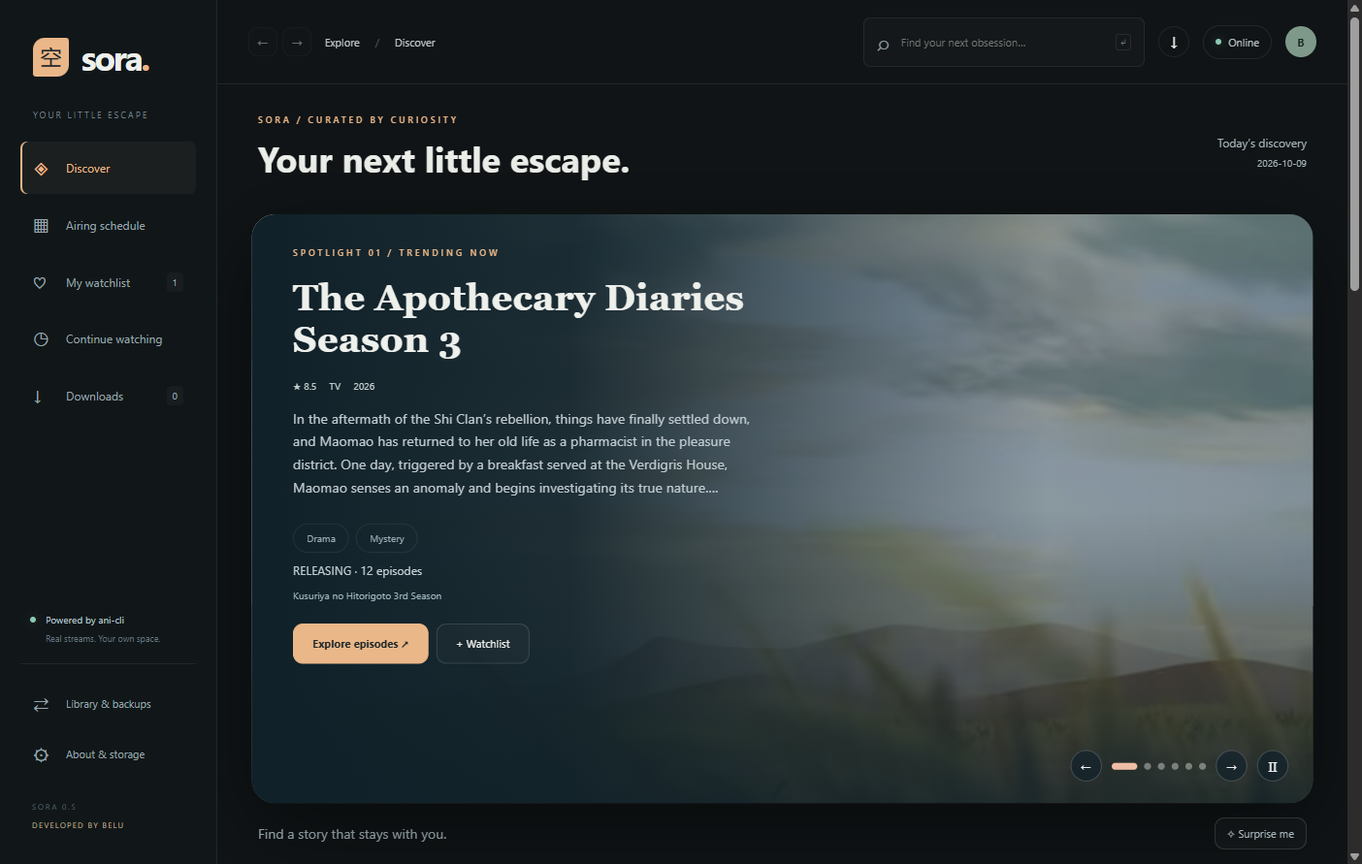
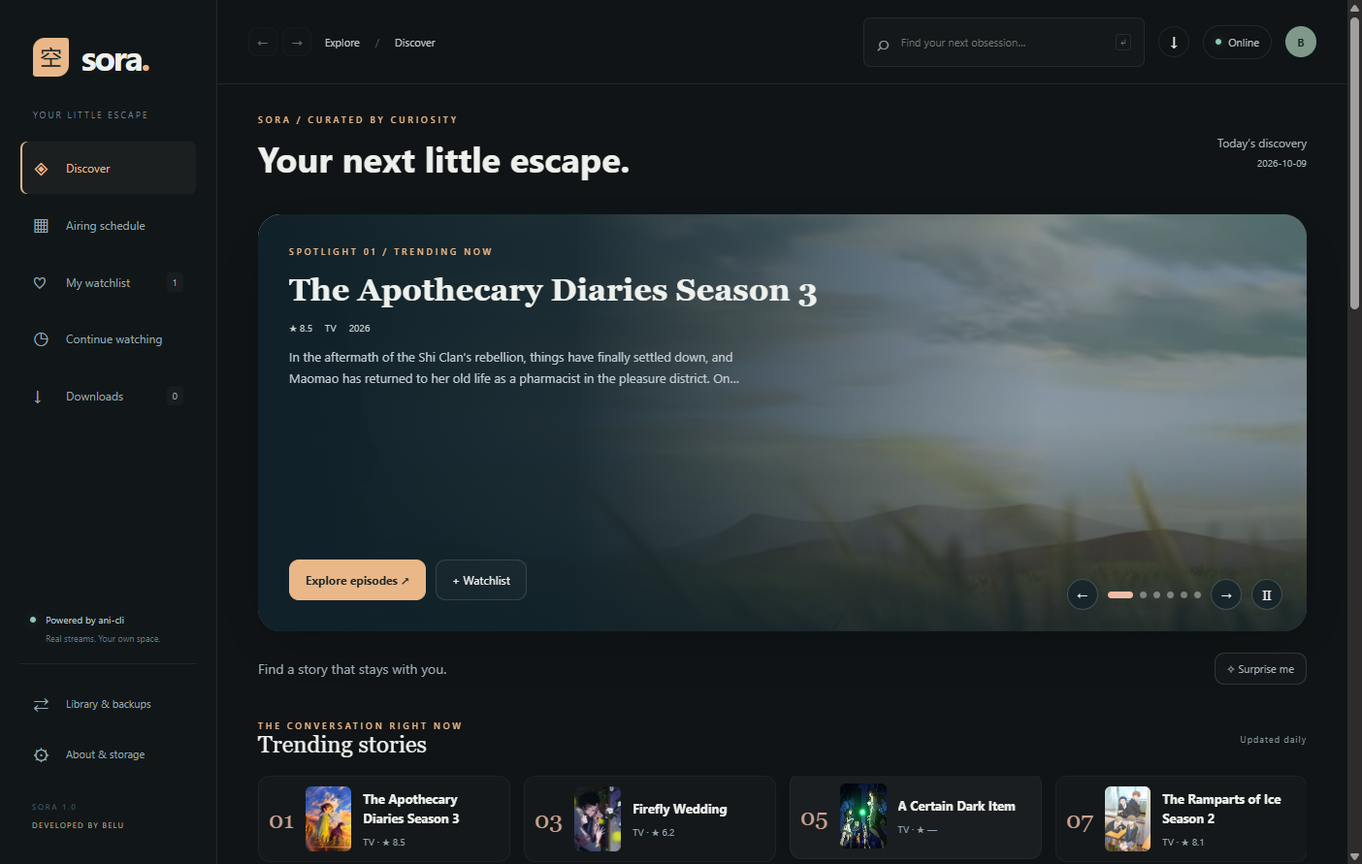
Finalize Sora 1.0 with responsive spotlight actions and regression verification

diff --git a/home.js b/home.js
@@ -6,7 +6,7 @@ async function loadDiscovery(force=false){applyDiscovery(await call('discovery',
 function heroItems(){const candidates=homeFeed?.trending||home;const banners=candidates.filter(m=>m.bannerImage);return (banners.length?banners:candidates).slice(0,6);}
 function moveSpotlight(index){const items=heroItems();if(!items.length)return;heroIndex=(index+items.length)%items.length;const track=$('#spotlight-track');document.querySelectorAll('.spotlight-slide').forEach((slide,i)=>slide.inert=i!==heroIndex);if(track)track.style.transform=`translateX(-${heroIndex*100}%)`;document.querySelectorAll('[data-spotlight]').forEach((b,i)=>{b.classList.toggle('active',i===heroIndex);b.setAttribute('aria-pressed',String(i===heroIndex));});}
 function startSpotlight(){clearInterval(heroTimer);moveSpotlight(heroIndex);heroTimer=setInterval(()=>{const hero=$('#home-spotlight');if(view==='home'&&!heroPaused&&!document.hidden&&hero&&!hero.matches(':hover')&&!hero.contains(document.activeElement)&&!playerReq)moveSpotlight(heroIndex+1);},5000);}
-function renderHome(){clearInterval(heroTimer);if(!home.length){$('#content').innerHTML=heading('YOUR NEXT LITTLE ESCAPE','A world worth getting lost in.')+soraLoader('Finding today’s stories');return;}heroIndex=Math.min(heroIndex,heroItems().length-1);const items=heroItems();$('#content').innerHTML=`<div class="discover-intro"><div><div class="eyebrow">SORA / CURATED BY CURIOSITY</div><h1>Your next little escape.</h1></div><span class="daily-note">${homeFeed?.stale?'Saved discovery · refresh pending':'Today’s discovery'}<br><small>${esc(homeFeed?.day||'Available offline')}</small></span></div><section id="home-spotlight" class="spotlight" aria-label="Featured anime"><div id="spotlight-track" class="spotlight-track" style="transform:translateX(-${heroIndex*100}%)">${items.map((m,i)=>`<article class="spotlight-slide"><img class="spotlight-art ${m.bannerImage?'':'spotlight-poster-fallback'}" src="${esc(m.bannerImage||m.coverImage?.extraLarge||art(m))}" alt="" ${i?'loading="lazy"':''}><div class="spotlight-shade"></div><div class="spotlight-copy"><div class="eyebrow">SPOTLIGHT ${String(i+1).padStart(2,'0')} / TRENDING NOW</div><h2>${esc(title(m))}</h2><div class="meta"><span>★ ${m.averageScore?(m.averageScore/10).toFixed(1):'—'}</span><span>${esc(m.format||'ANIME')}</span><span>${esc(m.seasonYear||'')}</span></div><p>${esc(plain(m.description).slice(0,650))}</p><div class="spotlight-more"><div class="tags">${(m.genres||[]).map(g=>`<span class="tag">${esc(g)}</span>`).join('')}</div><span>${esc(m.status?.replaceAll('_',' ')||'')} · ${esc(m.episodes?m.episodes+' episodes':'Episode count to be announced')}</span><small>${esc(m.title?.romaji!==title(m)?m.title?.romaji:'Artwork matched to this AniList season')}</small></div><button class="button primary" data-open="${m.id}">Explore episodes ↗</button><button class="button" data-save="${m.id}">${saved(m.id)?'✓ Saved':'+ Watchlist'}</button></div></article>`).join('')}</div><div class="spotlight-controls"><button data-hero-step="-1" aria-label="Previous recommendation">←</button><div>${items.map((m,i)=>`<button data-spotlight="${i}" class="${i===heroIndex?'active':''}" aria-label="Recommendation ${i+1}: ${esc(title(m))}" aria-pressed="${i===heroIndex}"></button>`).join('')}</div><button data-hero-step="1" aria-label="Next recommendation">→</button><button id="pause-spotlight" aria-label="Pause recommendations">${heroPaused?'▶':'Ⅱ'}</button></div></section><div class="discovery-toolbar"><span>Find a story that stays with you.</span><button class="button small" id="surprise-me">✧ Surprise me</button></div><section><div class="section-heading"><div><div class="eyebrow">THE CONVERSATION RIGHT NOW</div><h2>Trending stories</h2></div><span class="muted">Updated daily</span></div><div class="ranked-stories">${(homeFeed?.trending||home).slice(0,10).map((m,i)=>`<button class="ranked-story" data-open="${m.id}"><b>${String(i+1).padStart(2,'0')}</b><img src="${esc(art(m))}" loading="lazy" alt=""><span><strong>${esc(title(m))}</strong><small>${esc(m.format||'ANIME')} · ★ ${m.averageScore?(m.averageScore/10).toFixed(1):'—'}</small></span></button>`).join('')}</div></section><section><div class="section-heading"><div><div class="eyebrow">RECENT FAVOURITES</div><h2>Popular lately</h2></div></div>${cards(homeFeed?.popular?.length?homeFeed.popular:home.slice(0,12))}</section>${homeFeed?.upcoming?.length?`<section><div class="section-heading"><div><div class="eyebrow">SOMETHING TO LOOK FORWARD TO</div><h2>On the horizon</h2></div></div>${cards(homeFeed.upcoming)}</section>`:''}<p class="muted discovery-credit">Your stories. Your pace. Sora by Belu.</p>`;startSpotlight();}
+function renderHome(){clearInterval(heroTimer);if(!home.length){$('#content').innerHTML=heading('YOUR NEXT LITTLE ESCAPE','A world worth getting lost in.')+soraLoader('Finding today’s stories');return;}heroIndex=Math.min(heroIndex,heroItems().length-1);const items=heroItems();$('#content').innerHTML=`<div class="discover-intro"><div><div class="eyebrow">SORA / CURATED BY CURIOSITY</div><h1>Your next little escape.</h1></div><span class="daily-note">${homeFeed?.stale?'Saved discovery · refresh pending':'Today’s discovery'}<br><small>${esc(homeFeed?.day||'Available offline')}</small></span></div><section id="home-spotlight" class="spotlight" aria-label="Featured anime"><div id="spotlight-track" class="spotlight-track" style="transform:translateX(-${heroIndex*100}%)">${items.map((m,i)=>`<article class="spotlight-slide"><img class="spotlight-art ${m.bannerImage?'':'spotlight-poster-fallback'}" src="${esc(m.bannerImage||m.coverImage?.extraLarge||art(m))}" alt="" ${i?'loading="lazy"':''}><div class="spotlight-shade"></div><div class="spotlight-copy"><div class="eyebrow">SPOTLIGHT ${String(i+1).padStart(2,'0')} / TRENDING NOW</div><h2 title="${esc(title(m))}">${esc(title(m))}</h2><div class="meta"><span>★ ${m.averageScore?(m.averageScore/10).toFixed(1):'—'}</span><span>${esc(m.format||'ANIME')}</span><span>${esc(m.seasonYear||'')}</span></div><p>${esc(plain(m.description).slice(0,650))}</p><div class="spotlight-more"><div class="tags">${(m.genres||[]).map(g=>`<span class="tag">${esc(g)}</span>`).join('')}</div><span>${esc(m.status?.replaceAll('_',' ')||'')} · ${esc(m.episodes?m.episodes+' episodes':'Episode count to be announced')}</span><small>${esc(m.title?.romaji!==title(m)?m.title?.romaji:'Artwork matched to this AniList season')}</small></div><div class="spotlight-actions"><button class="button primary" data-open="${m.id}">Explore episodes ↗</button><button class="button" data-save="${m.id}">${saved(m.id)?'✓ Saved':'+ Watchlist'}</button></div></div></article>`).join('')}</div><div class="spotlight-controls"><button data-hero-step="-1" aria-label="Previous recommendation">←</button><div>${items.map((m,i)=>`<button data-spotlight="${i}" class="${i===heroIndex?'active':''}" aria-label="Recommendation ${i+1}: ${esc(title(m))}" aria-pressed="${i===heroIndex}"></button>`).join('')}</div><button data-hero-step="1" aria-label="Next recommendation">→</button><button id="pause-spotlight" aria-label="Pause recommendations">${heroPaused?'▶':'Ⅱ'}</button></div></section><div class="discovery-toolbar"><span>Find a story that stays with you.</span><button class="button small" id="surprise-me">✧ Surprise me</button></div><section><div class="section-heading"><div><div class="eyebrow">THE CONVERSATION RIGHT NOW</div><h2>Trending stories</h2></div><span class="muted">Updated daily</span></div><div class="ranked-stories">${(homeFeed?.trending||home).slice(0,10).map((m,i)=>`<button class="ranked-story" data-open="${m.id}"><b>${String(i+1).padStart(2,'0')}</b><img src="${esc(art(m))}" loading="lazy" alt=""><span><strong>${esc(title(m))}</strong><small>${esc(m.format||'ANIME')} · ★ ${m.averageScore?(m.averageScore/10).toFixed(1):'—'}</small></span></button>`).join('')}</div></section><section><div class="section-heading"><div><div class="eyebrow">RECENT FAVOURITES</div><h2>Popular lately</h2></div></div>${cards(homeFeed?.popular?.length?homeFeed.popular:home.slice(0,12))}</section>${homeFeed?.upcoming?.length?`<section><div class="section-heading"><div><div class="eyebrow">SOMETHING TO LOOK FORWARD TO</div><h2>On the horizon</h2></div></div>${cards(homeFeed.upcoming)}</section>`:''}<p class="muted discovery-credit">Your stories. Your pace. Sora by Belu.</p>`;startSpotlight();}
 function renderDownloads(){const complete=queue.filter(j=>j.availableOffline).length;$('#content').innerHTML=heading('YOUR OFFLINE COLLECTION','A little saved for later.',`${complete} saved · ${queue.length} in collection`)+`<div class="download-intro"><span class="muted">Select an artwork or title to open its anime page.</span><button class="button small" id="open-folder">↗ Open folder</button></div>`+(queue.length?`<div class="collection-grid">${queue.map(j=>`<article class="collection-card"><button class="collection-cover" data-download-title="${esc(j.key)}" aria-label="Open ${esc(j.title)}">${j.thumbnail?`<img src="${esc(j.thumbnail)}" alt="${esc(j.title)}" loading="lazy">`:'<span>空</span>'}</button><div class="collection-copy"><button class="collection-title" data-download-title="${esc(j.key)}">${esc(j.title)}</button><p>Episode ${esc(j.episode)} · ${esc(j.mode||'sub')}</p><span class="collection-status ${j.availableOffline?'saved':''}">${j.availableOffline?'● Saved offline':j.status==='complete'?'File unavailable':esc(j.status)}</span><p class="muted">${esc(j.progress||j.error||'')}</p><div>${['queued','resolving','downloading'].includes(j.status)?`<button class="button small" data-cancel="${esc(j.key)}">Cancel</button>`:['error','failed','cancelled'].includes(j.status)?`<button class="button small" data-retry-download="${esc(j.key)}">↻ Retry</button>`:''}</div></div></article>`).join('')}</div>`:'<div class="empty"><h2>Take a story with you.</h2>Download an episode from its anime page to see it here.</div>');}
 function showConnection(value){connectionState=value;const b=$('#connection-status');if(!b)return;b.className=`connection-status ${value.online===null?'checking':value.online?'online':'offline'}`;b.querySelector('span').textContent=value.online===null?'Checking':value.online?(value.catalogueAvailable===false?'Online · limited':'Online'):'Offline';b.title=value.online?'Internet available · click to recheck':'Offline · saved library and downloads remain available';}
 async function checkConnection(){if(!navigator.onLine){showConnection({online:false});return;}try{showConnection(await call('connectivity'));}catch{showConnection({online:false});}}

diff --git a/renderer.js b/renderer.js
@@ -17,7 +17,7 @@ function renderView(){const content=$('#content');
   else if(view==='history')content.innerHTML=heading('PICK UP WHERE YOU LEFT OFF','One more episode?')+(library.history.length?`<div class="cards">${library.history.map(h=>`<button class="card" data-resume="${h.media.id}"><div class="poster"><img src="${esc(art(h.media))}" alt="${esc(title(h.media))}"><span class="card-badge">EPISODE ${esc(h.episode)}</span><span class="play-icon">↗</span></div><h3>${esc(title(h.media))}</h3><div class="card-meta"><span>${h.position?Math.floor(h.position/60)+' min in':'Ready to watch'}</span><b>View episodes →</b></div></button>`).join('')}</div>`:'<div class="empty"><h2>Your stories will find you here.</h2>Start an episode to build your viewing history.</div>');
   else if(view==='search')content.innerHTML=heading('FIND SOMETHING YOU’LL LOVE',`Results for “${$('#search').value.trim()}”`,`${searchItems.length} titles`)+(searchItems.length?cards(searchItems):'<div class="empty">No titles found. Try the English or Japanese title.</div>');
   else if(view==='backup')renderBackup();else if(view==='schedule')void renderSchedule();else if(view==='downloads')renderDownloads();
-  else if(view==='about')content.innerHTML=heading('MADE FOR YOUR LITTLE ESCAPE','A home for your stories, by Belu.')+`<div class="about-grid"><section class="about-panel"><div class="eyebrow">SORA 0.5 / DEVELOPED BY BELU</div><h2>Beautiful on the outside.<br>ani-cli on the inside.</h2><p>Search artwork and metadata from AniList. Browse real episodes and resolve streams through a pinned copy of the original ani-cli. Your watchlist and playback positions stay on this computer.</p><p>Sora Cinema includes adaptive quality, subtitle controls, playback speed, picture in picture, and keyboard shortcuts. Explore related seasons and download episodes individually or in batches. Created by Belu. Your library, player preferences, and backups stay on your computer.</p></section><section class="about-panel"><div class="eyebrow">YOUR FILES</div><h2>Everything has a place.</h2><p>Downloads go to:</p><code>${esc(downloadPath)}</code><div class="actions"><button class="button" id="open-folder">↗ Open downloads folder</button></div><p>Application data lives in Sora/data. Source, dependencies and tools stay in the Sora folder. See READ ME.md for launch and removal instructions.</p><p>Sora finds the matching streaming edition automatically. Source availability can vary; reconnect when a stream is unavailable.</p></section></div>`;
+  else if(view==='about')content.innerHTML=heading('MADE FOR YOUR LITTLE ESCAPE','A home for your stories, by Belu.')+`<div class="about-grid"><section class="about-panel"><div class="eyebrow">SORA 1.0 / DEVELOPED BY BELU</div><h2>Beautiful on the outside.<br>ani-cli on the inside.</h2><p>Search artwork and metadata from AniList. Browse real episodes and resolve streams through a pinned copy of the original ani-cli. Your watchlist and playback positions stay on this computer.</p><p>Sora Cinema includes adaptive quality, subtitle controls, playback speed, picture in picture, and keyboard shortcuts. Explore related seasons and download episodes individually or in batches. Created by Belu. Your library, player preferences, and backups stay on your computer.</p></section><section class="about-panel"><div class="eyebrow">YOUR FILES</div><h2>Everything has a place.</h2><p>Downloads go to:</p><code>${esc(downloadPath)}</code><div class="actions"><button class="button" id="open-folder">↗ Open downloads folder</button></div><p>Application data lives in Sora/data. Source, dependencies and tools stay in the Sora folder. See READ ME.md for launch and removal instructions.</p><p>Sora finds the matching streaming edition automatically. Source availability can vary; reconnect when a stream is unavailable.</p></section></div>`;
 }
 async function openDetail(media,resume=null){closePlayer();rememberPage();generation++;const gen=generation;view='detail';related=[];current=media;provider=null;episodes=[];sources=[];episodePage=0;selected=resume?.episode||'1';loadMessage='Finding this title on ani-cli…';loadError='';$('#breadcrumb').innerHTML=`Explore <span>/</span> ${esc(title(media))}`;renderDetail();window.scrollTo(0,0);
   if(connectionState.online===false){loadMessage='Offline · your saved title details are available. Open Downloads to access saved files.';renderDetail();return;}

diff --git a/player.js b/player.js
@@ -26,7 +26,7 @@ async function playEpisode(episode,position=0){
     const tracks=value.tracks?.length?value.tracks:value.subtitles?[{url:value.subtitles,label:'English',language:'en',default:true}]:[];
     tracks.forEach((t,i)=>addSubtitle(video,t,i));
     if(Hls.isSupported()){hls=new Hls({maxBufferLength:20,maxMaxBufferLength:40,startLevel:-1,autoStartLoad:false});const engine=hls;let recoveries=0;
-      engine.on(Hls.Events.MANIFEST_PARSED,()=>{if(playerReq!==req)return;const levels=engine.levels;const best=qualityIndex(levels,'best');const height=levels[best]?.height;$('#player-quality').innerHTML=`<option value="best">Best${height?' · '+height+'p':''}</option><option value="auto">Auto · adaptive</option>`+[...new Set(levels.map(l=>l.height).filter(Boolean))].sort((a,b)=>b-a).map(h=>`<option value="${h}">${h}p</option>`).join('');const target=qualityIndex(levels,desiredQuality);engine.startLevel=target;engine.loadLevel=target;$('#player-quality').value=[...$('#player-quality').options].some(o=>o.value===desiredQuality)?desiredQuality:'best';engine.startLoad(position||-1);video.play().catch(()=>{$('#player-status').textContent='Press Play to start.';});});
+      engine.on(Hls.Events.MANIFEST_PARSED,()=>{if(playerReq!==req)return;const levels=engine.levels;const best=qualityIndex(levels,'best');const height=levels[best]?.height;$('#player-quality').innerHTML=`<option value="best">Best${height?' · '+height+'p':''}</option><option value="auto">Auto · adaptive</option><option value="worst">Lowest available</option>`+[...new Set(levels.map(l=>l.height).filter(Boolean))].sort((a,b)=>b-a).map(h=>`<option value="${h}">${h}p</option>`).join('');const target=qualityIndex(levels,desiredQuality);engine.startLevel=target;engine.loadLevel=target;$('#player-quality').value=[...$('#player-quality').options].some(o=>o.value===desiredQuality)?desiredQuality:'best';engine.startLoad(position||-1);video.play().catch(()=>{$('#player-status').textContent='Press Play to start.';});});
       engine.on(Hls.Events.LEVEL_SWITCHED,()=>{if(playerReq===req)reflectQuality();});
       engine.on(Hls.Events.ERROR,(_event,data)=>{if(!data.fatal||playerReq!==req)return;if(recoveries++<2){$('#player-status').textContent='Reconnecting to the stream…';if(data.type===Hls.ErrorTypes.MEDIA_ERROR)engine.recoverMediaError();else engine.startLoad();}else{$('.cinema-stage')?.classList.remove('is-buffering');$('#player-status').textContent='The source stopped responding. Reconnect with Retry.';}});
       engine.loadSource(value.url);engine.attachMedia(video);
@@ -42,4 +42,5 @@ document.addEventListener('change',async e=>{const v=$('#video');if(!v)return;tr
 document.addEventListener('keydown',e=>{if(!playerReq||/INPUT|SELECT|TEXTAREA/.test(e.target.tagName))return;if(e.key==='F11'){e.preventDefault();void setPlayerFullscreen(!playerFullscreen);return;}const map={' ':'play',ArrowLeft:'back',ArrowRight:'forward',f:'fullscreen',m:'mute'};if(map[e.key]){e.preventDefault();document.querySelector(`[data-control="${map[e.key]}"]`)?.click();}});
 document.addEventListener('change',e=>{if(!playerReq)return;const ids=['speed','caption-size','caption-color','caption-bg','caption-position','caption-offset','skip-seconds','volume','auto-next'];if(!ids.includes(e.target.id))return;const preferences={...playerPrefs()};preferences[e.target.id]=e.target.type==='checkbox'?e.target.checked:e.target.value;storePlayerPreferences(preferences);if(e.target.id==='skip-seconds')$('#skip-label').textContent=e.target.value;});
 document.addEventListener('mousemove',e=>{if(!playerReq||!e.target.closest('#player'))return;$('#player').classList.remove('controls-asleep');clearTimeout(controlsTimer);controlsTimer=setTimeout(()=>{if(playerFullscreen&&!$('#video')?.paused&&!$('.player-settings')?.open)$('#player').classList.add('controls-asleep');},2800);});
+
 

diff --git a/index.html b/index.html
@@ -3,7 +3,7 @@
 <body>
 <aside class="sidebar"><a class="brand" href="#" data-nav="home"><span class="brand-mark">空</span><span>sora<span class="brand-dot">.</span></span></a><div class="workspace-label">YOUR LITTLE ESCAPE</div><nav>
 <button class="nav active" data-nav="home"><span>◈</span>Discover</button><button class="nav" data-nav="schedule"><span>▦</span>Airing schedule</button><button class="nav" data-nav="watchlist"><span>♡</span>My watchlist <small id="saved-count">0</small></button><button class="nav" data-nav="history"><span>◷</span>Continue watching</button><button class="nav" data-nav="downloads"><span>↓</span>Downloads <small id="queue-count">0</small></button>
-</nav><div class="sidebar-bottom"><div class="engine"><span class="live-dot"></span><div>Powered by ani-cli<small>Real streams. Your own space.</small></div></div><button class="nav" data-nav="backup"><span>⇄</span>Library & backups</button><button class="nav" data-nav="about"><span>⚙</span>About & storage</button><div class="version">SORA 0.5 <span>DEVELOPED BY BELU</span></div></div></aside>
+</nav><div class="sidebar-bottom"><div class="engine"><span class="live-dot"></span><div>Powered by ani-cli<small>Real streams. Your own space.</small></div></div><button class="nav" data-nav="backup"><span>⇄</span>Library & backups</button><button class="nav" data-nav="about"><span>⚙</span>About & storage</button><div class="version">SORA 1.0 <span>DEVELOPED BY BELU</span></div></div></aside>
 <div class="app"><header class="topbar"><div class="history-controls"><button id="nav-back" aria-label="Go back" title="Back · Alt+←">←</button><button id="nav-forward" aria-label="Go forward" title="Forward · Alt+→">→</button></div><div class="breadcrumb" id="breadcrumb">Explore <span>/</span> Discover</div><form id="search-form"><span class="search-icon">⌕</span><input id="search" autocomplete="off" placeholder="Find your next obsession…" aria-label="Search anime"><kbd>↵</kbd></form><button class="round" data-nav="downloads" title="Downloads">↓</button><button id="connection-status" class="connection-status checking" title="Checking internet connection"><i></i><span>Checking</span></button><span class="avatar" title="Belu · Developer">B</span></header><main id="content"></main><footer><span>SORA <span class="muted">— a little closer to your next story.</span></span><span>DEVELOPED BY BELU <i>•</i> ARTWORK BY ANILIST</span></footer></div>
 <div id="modal" class="modal hidden" role="dialog" aria-modal="true"></div><div id="player" class="player-shell hidden" role="dialog" aria-modal="true"></div><div id="toast" class="toast hidden" role="status"></div>
 <script src="node_modules/hls.js/dist/hls.min.js"></script><script src="matching.js"></script><script src="experience.js"></script><script src="home.js"></script><script src="poster-preview.js"></script><script src="renderer.js"></script><script src="quality.js"></script><script src="player.js"></script></body></html>

diff --git a/style.css b/style.css
@@ -12,3 +12,5 @@ button,.button,.tag,.nav,.relation-card,.episode-tile,select{transition:backgrou
 /* Landscape banners retain their size; expanded previews belong to poster cards. */
 .spotlight-poster-fallback{width:38%;height:90%;right:4%;top:5%;object-fit:contain;object-position:center;border-radius:14px}.spotlight-more{display:none}.quick-quality{display:flex;align-items:center;gap:8px;font-size:11px;color:#a9c6bc}.quick-quality select{min-width:135px;padding:7px 9px;border-radius:8px;font-size:12px}.control-row{flex-wrap:wrap}
 .poster-preview{position:fixed;z-index:35;width:min(430px,calc(100vw - 24px));max-height:calc(100vh - 112px);overflow:auto;background:#182226;border:1px solid #8ac9b24a;border-radius:18px;box-shadow:0 22px 80px #000b;animation:poster-reveal .18s ease-out;overscroll-behavior:contain}.preview-banner{height:125px;overflow:hidden;position:relative}.preview-banner img{width:100%;height:100%;object-fit:cover}.preview-banner:after{content:'';position:absolute;inset:0;background:linear-gradient(transparent,#182226)}.preview-body{display:flex;gap:16px;padding:18px 22px 8px}.preview-poster{width:100px;height:145px;object-fit:cover;border-radius:9px;flex-shrink:0;box-shadow:0 7px 20px #0004}.preview-body h2{font:23px/1.2 Georgia,serif;margin:11px 0;color:#f1eee7}.preview-meta,.preview-status{font-size:11px;color:#a9c6bc;line-height:1.8}.preview-details{padding:6px 22px 22px}.preview-details .tags{margin:8px 0}.preview-details p{font-size:13px;line-height:1.7;color:#bdcbd0;display:-webkit-box;-webkit-line-clamp:5;-webkit-box-orient:vertical;overflow:hidden;margin:12px 0 18px}.preview-actions{display:flex;gap:10px}.card:focus-visible{outline:2px solid #8ac9b2;outline-offset:5px}@keyframes poster-reveal{from{opacity:0;transform:scale(.96) translateY(7px)}to{opacity:1;transform:none}}@media(prefers-reduced-motion:reduce){.poster-preview{animation:none}}
+/* Keep long spotlight titles and both actions inside the banner at every window size. */
+.spotlight-copy{height:100%;width:min(630px,70%);max-width:none;padding:32px;display:flex;flex-direction:column;align-items:flex-start;box-sizing:border-box}.spotlight-copy .eyebrow,.spotlight-copy .meta{flex-shrink:0}.spotlight-copy h2{font-size:clamp(26px,2.3vw,34px);line-height:1.12;margin:16px 0 14px;display:-webkit-box;-webkit-line-clamp:3;-webkit-box-orient:vertical;overflow:hidden;max-width:100%;min-height:0;flex-shrink:1}.spotlight-copy p{font-size:13px;line-height:1.65;-webkit-line-clamp:2;margin:12px 0 16px;flex-shrink:0}.spotlight-actions{display:flex;gap:10px;margin-top:auto;flex-shrink:0;align-items:center}.spotlight-copy .spotlight-actions .button{margin:0;white-space:nowrap;padding:12px 16px;font-size:12px}@media(max-width:1100px){.spotlight-copy{width:72%;padding:28px}.spotlight-copy h2{font-size:28px}.spotlight-copy p{font-size:12px}.spotlight-copy .spotlight-actions .button{padding:11px 12px;font-size:11px}}

diff --git a/poster-preview.js b/poster-preview.js
@@ -13,8 +13,8 @@ document.addEventListener('pointerover',e=>{const card=e.target.closest('.card[d
 document.addEventListener('pointerout',e=>{const card=e.target.closest('.card[data-open],.card[data-resume]');if(!card||card.contains(e.relatedTarget)||document.getElementById('poster-preview')?.contains(e.relatedTarget))return;clearTimeout(posterPreviewTimer);posterPreviewTimer=setTimeout(hidePosterPreview,160);});
 document.addEventListener('focusin',e=>{const card=e.target.closest('.card[data-open],.card[data-resume]');if(card){clearTimeout(posterPreviewTimer);posterPreviewTimer=setTimeout(()=>showPosterPreview(card),100);}});
 document.addEventListener('focusout',e=>{if(document.getElementById('poster-preview')?.contains(e.relatedTarget)||posterPreviewAnchor?.contains(e.relatedTarget))return;posterPreviewTimer=setTimeout(hidePosterPreview,160);});
-document.addEventListener('click',e=>{if(e.target.closest('[data-open],[data-resume],[data-nav]'))hidePosterPreview();});
-document.addEventListener('keydown',e=>{if(e.key==='Escape')hidePosterPreview();});window.addEventListener('scroll',hidePosterPreview,{passive:true});window.addEventListener('resize',hidePosterPreview);
+document.addEventListener('click',e=>{if(e.target.closest('[data-open],[data-resume],[data-nav]'))hidePosterPreview();const button=e.target.closest('#poster-preview [data-save]');if(button)setTimeout(()=>{if(button.isConnected)button.textContent=saved(Number(button.dataset.save))?'✓ Saved':'+ Watchlist';},0);});
+document.addEventListener('keydown',e=>{if(e.key==='Escape')hidePosterPreview();});window.addEventListener('scroll',()=>{const card=document.activeElement?.closest('.card[data-open],.card[data-resume]');hidePosterPreview();if(card)posterPreviewTimer=setTimeout(()=>showPosterPreview(card),140);},{passive:true});window.addEventListener('resize',hidePosterPreview);
 new MutationObserver(()=>{if(posterPreviewAnchor&&!posterPreviewAnchor.isConnected)hidePosterPreview();}).observe(document.getElementById('content'),{childList:true,subtree:true});
 
 

diff --git a/READ ME.md b/READ ME.md
@@ -1,6 +1,6 @@
 # Sora — an artwork-first desktop companion for ani-cli
 
-Version 0.5.0, local development preview. Developed by **Belu**.
+Version 1.0.0, local desktop release. Developed by **Belu**.
 
 ## Open
 
@@ -101,6 +101,8 @@ Back/forward arrows and Alt+Left/Right restore page state and scroll position. W
 
 ## Verification
 
-Sixteen unit tests passed, including backup round-trip, latest-progress merging, replacement, validation, and automatic season matching. Live Electron checks passed for episode-click autoplay, playing fullscreen, Escape keeping the player open, subtitle cues, speed controls, downloads/cancellation, navigation back/forward, backup export/import, restore safety snapshots, and the airing schedule. These checks used isolated data and small partial downloads. Full episode downloads and every streaming source are not exhaustively tested. Manual visual review was blocked by the Windows helper error “foreground window did not report a process id.”
+Twenty-two unit tests and six Electron integration suites passed for this release. Every spotlight action was visible and clickable at 1000×700, 1420×930, and 1920×1080, including long JoJo titles. Checks covered poster hover previews, daily discovery, offline title links, backups and safety snapshots, navigation, airing schedule, episode-click autoplay, fullscreen, subtitles, speed, Best/Auto/manual quality, and download transfer/cancellation. A controlled two-resolution video verified switching without losing playback position. Application screenshots were reviewed. The uninstall script was checked in WhatIf mode without removing files.
+
+These checks used isolated test data. Download transfer and cancellation were checked with a small partial download; full episodes and every external streaming source were not exhaustively tested. Details are in docs/final-verification.json.
 
 The loading constellation is original CSS animation, with reduced-motion support. Artwork remains credited to AniList and its respective rights holders. Sora's developer credit is Belu. Feature references include [Re:ANIME's schedule](https://reanime.to/schedule) and [watchlist export/import](https://reanime.to/profile). Fullscreen and autoplay follow [Electron's BrowserWindow API](https://www.electronjs.org/docs/latest/api/browser-window).
